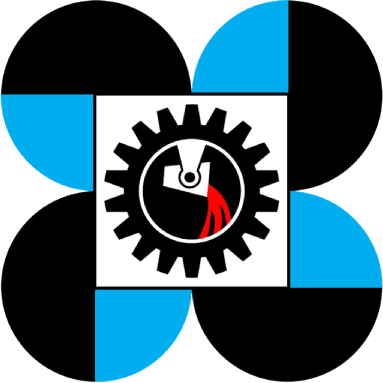
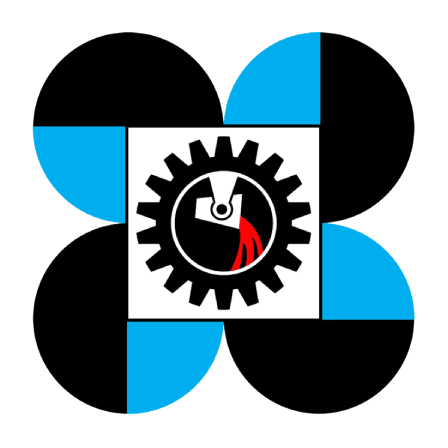
Fix header brand mark fit: padded seal canvas + porcelain chip mount
The extracted seal was a zero-padding crop (artwork touching all four
canvas edges), so at header size the quatrefoil read as cramped/clipped
and its white center square melted into the white capsule, leaving the
gear crest floating awkwardly on the pinwheel.

- Rebuild MIRDC-mark.png: native 383px artwork centered on a 448px
  transparent canvas (~7.25% breathing room per side) — benefits every
  surface incl. the favicon
- Header lockup mounts the seal on the porcelain chip convention already
  used by the jobs board cards and the auth brand panel (circular chip,
  hairline divider border, soft shadow), mark bumped 32 -> 36px

diff --git a/src/components/shell/site-header.tsx b/src/components/shell/site-header.tsx
@@ -44,8 +44,16 @@ export function SiteHeader() {
           aria-label="RMIS — Recruitment Management Information System home"
         >
           {/* Official unified brand mark — DOST pinwheel + MIRDC gear crest
-              in a single emblem (see brand-logo). Floats on the capsule. */}
-          <BrandLogo logoSize={32} />
+              in a single emblem (see brand-logo). Mounted on the porcelain
+              chip (same convention as the jobs board card and the auth brand
+              panel): on the white capsule the seal's white center square
+              otherwise melts into the surface and the gear crest reads as
+              floating on the pinwheel. The circle chip + hairline border
+              gives the emblem a defined footprint that echoes the pill. */}
+          <BrandLogo
+            logoSize={36}
+            className="rounded-full border border-divider/70 bg-white shadow-[0_1px_2px_rgba(11,24,34,0.08)]"
+          />
           <span className="hidden min-w-0 text-balance text-left text-[15px] font-medium leading-tight tracking-[0.01em] text-ink sm:block">
             {RMIS_FULL_NAME}
           </span>
